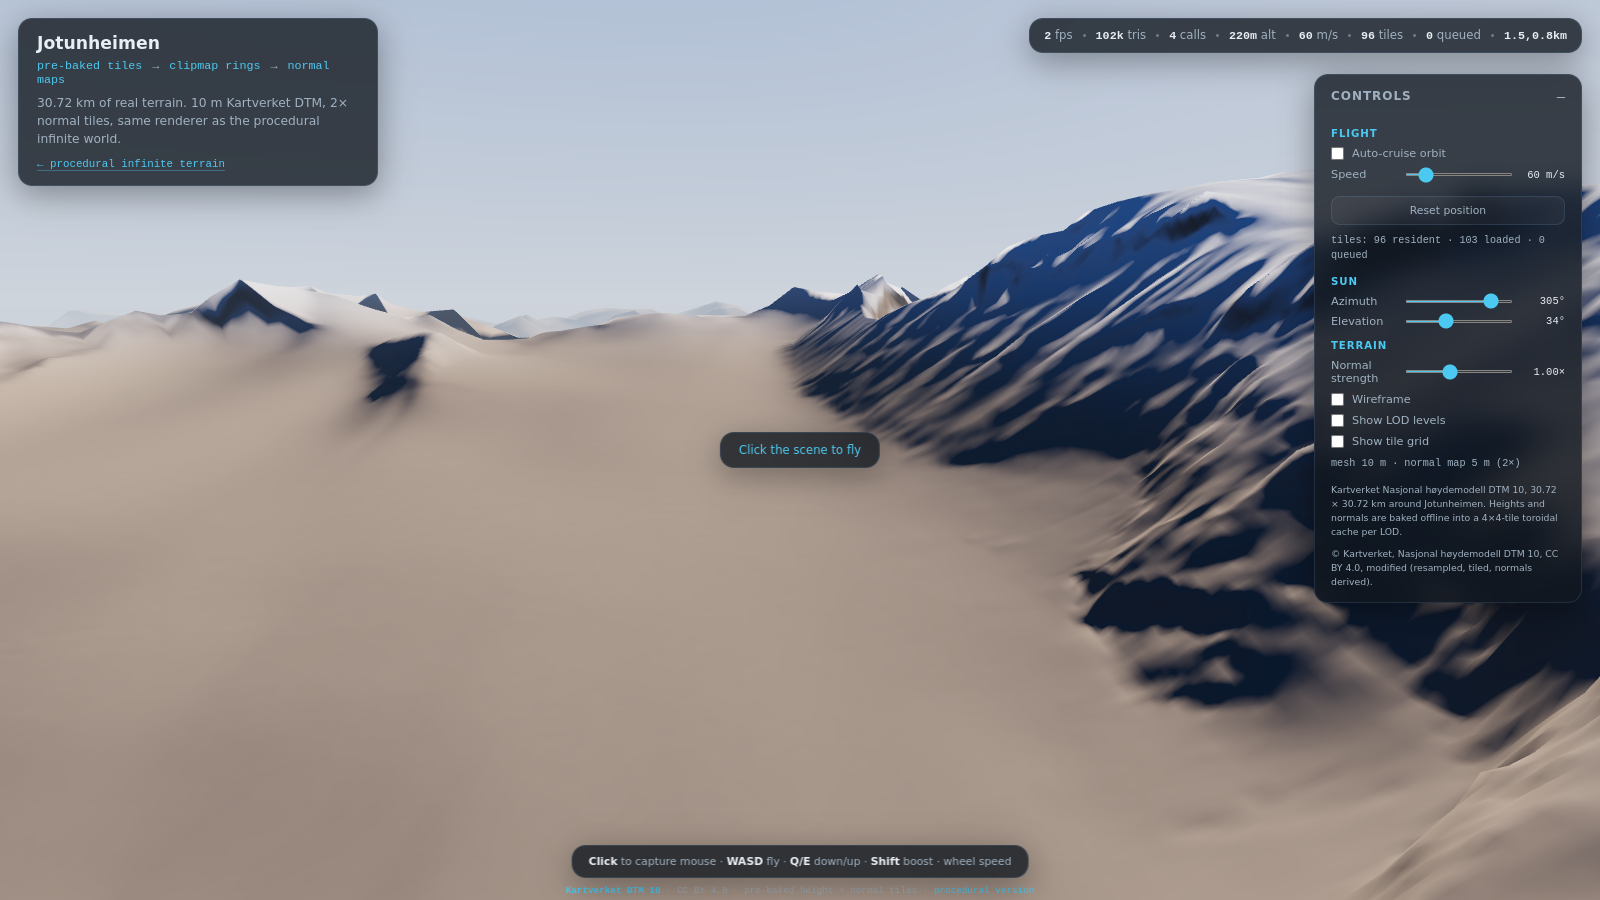
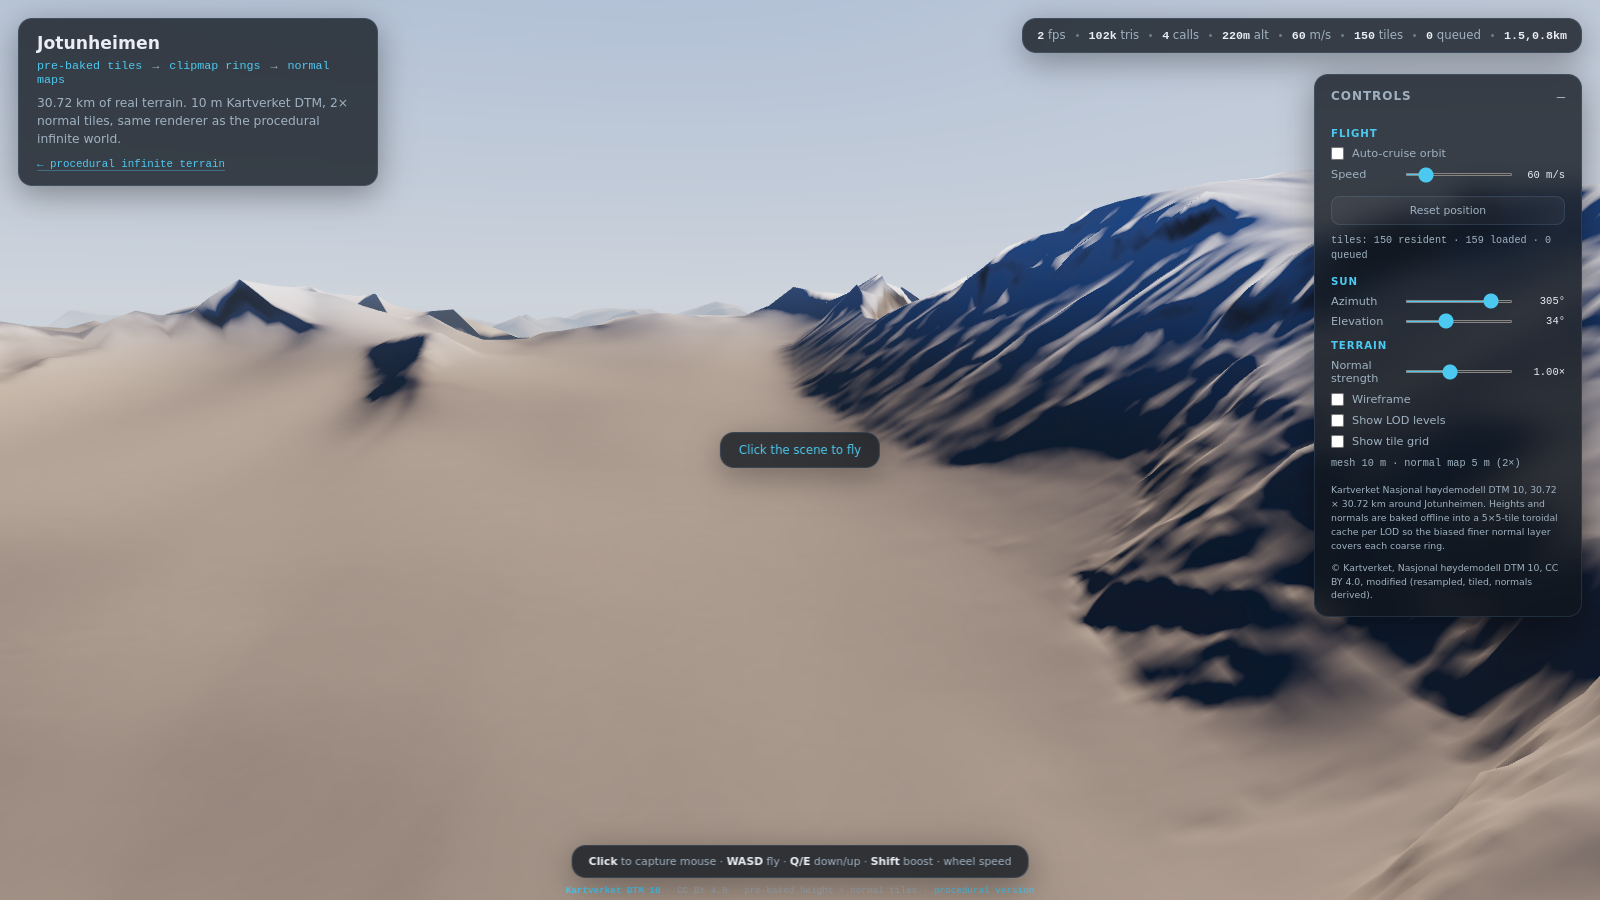
Fix normal atlas wrap seams on the DEM scene
Use a symmetric 5x5 cache so the one-layer normal bias covers the whole coarse ring, clamp the normal atlas outer edge so the toroidal slot-4/slot-0 wrap cannot blend, and expose a QA bias toggle. Flat-normal and wireframe probes confirm the mesh geometry is continuous; the artifacts were normal-map filtering.

Changed region(s): [[0.8125, 0.5911, 0.9688, 0.6844], [0.625, 0.0311, 0.8438, 0.0622], [0.875, 0.2489, 0.9375, 0.28]]

diff --git a/src/terrain/renderer.ts b/src/terrain/renderer.ts
@@ -121,7 +121,7 @@ export class ClipmapRenderer {
       uPixelScale: { value: 0.001 },
       uNormalStrength: { value: 1 },
       // Default to the geometric layer; the DEM scene opts into one finer
-      // layer, where the 4x4 cache covers the whole coarse ring.
+      // layer, where its 5x5 cache covers the whole coarse ring.
       uNormalLodBias: { value: 0 },
       uSunDirection: { value: new THREE.Vector3(0, 1, 0) },
       uSunColor: { value: new THREE.Color(1, 0.97, 0.9) },
@@ -238,8 +238,12 @@ export class ClipmapRenderer {
     texture.type = THREE.UnsignedByteType;
     texture.minFilter = THREE.LinearFilter;
     texture.magFilter = THREE.LinearFilter;
-    texture.wrapS = THREE.RepeatWrapping;
-    texture.wrapT = THREE.RepeatWrapping;
+    // The normal cache is a toroidal 5x5 atlas. Clamp only the outer atlas
+    // edge: internal slot boundaries are adjacent world tiles and should
+    // interpolate, but the wrap from slot 4 back to slot 0 is not spatially
+    // adjacent and must not blend.
+    texture.wrapS = THREE.ClampToEdgeWrapping;
+    texture.wrapT = THREE.ClampToEdgeWrapping;
     texture.generateMipmaps = false;
     texture.flipY = false;
     texture.unpackAlignment = 1;

diff --git a/src/dem/main.ts b/src/dem/main.ts
@@ -56,6 +56,7 @@ export interface DemQA {
   setTileDebug(on: boolean): void;
   setWireframe(on: boolean): void;
   setCrackDebug(on: boolean): void;
+  setNormalLodBias(bias: number): void;
   waitForTiles(): Promise<void>;
   warpTo(x: number, z: number, y?: number | null): Promise<void>;
   groundHeight(): number;
@@ -380,6 +381,9 @@ function setupQA(): void {
     setCrackDebug: (on) => {
       renderer.setClearColor(on ? 0xff00ff : 0x0b0f14, 1);
       sky.visible = !on;
+    },
+    setNormalLodBias: (bias) => {
+      terrainRenderer.setNormalLodBias(bias);
     },
     waitForTiles: () => streamer.waitForDesired(flight.x, flight.z),
     warpTo: async (x, z, y = null) => {

diff --git a/dem.html b/dem.html
@@ -83,7 +83,7 @@
       </section>
 
       <section class="credits">
-        <p>Kartverket Nasjonal høydemodell DTM 10, 30.72 × 30.72 km around Jotunheimen. Heights and normals are baked offline into a 4×4-tile toroidal cache per LOD.</p>
+        <p>Kartverket Nasjonal høydemodell DTM 10, 30.72 × 30.72 km around Jotunheimen. Heights and normals are baked offline into a 5×5-tile toroidal cache per LOD so the biased finer normal layer covers each coarse ring.</p>
         <p class="attribution">© Kartverket, Nasjonal høydemodell DTM 10, CC BY 4.0, modified (resampled, tiled, normals derived).</p>
       </section>
     </div>

diff --git a/src/terrain/shaders.ts b/src/terrain/shaders.ts
@@ -210,7 +210,7 @@ export const terrainFragmentShader: string = /* glsl */ `
 
     // ---- normal map, with an optional negative LOD bias -----------------
     // The DEM page sets uNormalLodBias to 1. The next-finer normal layer is
-    // resident in the 4x4 cache and covers the whole coarse ring, so this
+    // resident in the 5x5 cache and covers the whole coarse ring, so this
     // gives distant shading detail without mipmap bleeding across slots.
     float nLevel = max(vLevel - uNormalLodBias, 0.0);
     float nSpacing = uBaseSpacing * exp2(nLevel);

diff --git a/src/dem/prebaked-source.ts b/src/dem/prebaked-source.ts
@@ -95,7 +95,9 @@ export function configFromManifest(manifest: DemManifest): TerrainConfig {
     baseSpacing: manifest.baseSpacing,
     levels: manifest.levels,
     tileSize: manifest.tileSize,
-    cacheTiles: 4,
+    // The normal LOD bias samples layer L-1; a symmetric 5x5 window is
+    // required for that finer layer to cover the whole coarse ring.
+    cacheTiles: 5,
     normalScale: manifest.normalScale,
     heightScale: manifest.heightScale,
     centerCells: 24,

diff --git a/openspec/changes/add-prebaked-jotunheimen-scene/design.md b/openspec/changes/add-prebaked-jotunheimen-scene/design.md
@@ -98,7 +98,7 @@ interface TileSource {
 }
 ```
 
-`TileCache` owns the desired 4×4 window, priority sort, stale-request cancellation, slot state, upload errors, `prime()`, and `waitForDesired()`. It allows a small fixed number of in-flight source promises (4 is a reasonable default; the procedural source internally limits itself to its two workers). A stale result is discarded without upload; a failed result is reported once and recorded so it is not retried in a tight loop.
+`TileCache` owns the desired `cacheTiles × cacheTiles` window (4×4 for the procedural page, 5×5 for the DEM page), priority sort, stale-request cancellation, slot state, upload errors, `prime()`, and `waitForDesired()`. It allows a small fixed number of in-flight source promises (4 is a reasonable default; the procedural source internally limits itself to its two workers). A stale result is discarded without upload; a failed result is reported once and recorded so it is not retried in a tight loop.
 
 The procedural source moves the current worker-pool logic out of `TileStreamer`. The worker protocol is simplified: `init` carries the seed plus the `TerrainConfig` generation fields; tile requests carry only `id`, `level`, `tx`, `ty`. The worker keeps its height field and config for its lifetime. This removes the current per-tile repetition of `tileSize`, `baseSpacing`, `heightScale`, and `normalScale`.
 
@@ -148,7 +148,7 @@ Kartverket WCS (EPSG:25833)
 
 **Normals.** For each tile at LOD `L`, sample a `(64·normalScale + 2)²` halo at `normalSpacing = S_L / normalScale` from the same global grid using bilinear interpolation. Call the shared `bakeTileNormals(halo, normalTileSize, normalSpacing, heightScale)`. The halo means the normals adjacent to a tile boundary are computed from the same world samples as the neighbour, so the normal field is continuous after RGB8 quantization. The bake tool compares boundary-adjacent normals against a reference recomputation from the global grid and writes a seam report; `test:dem` verifies the report and can rebake a deterministic sample of boundary tiles.
 
-**Normal LOD bias.** The fragment shader samples normal layer `max(vLevel - uNormalLodBias, 0)`; the DEM page sets the bias to 1, so distant rings use the next-finer normal layer that is already resident in the 4×4 cache. The procedural page keeps 0. The boundary cross-fade target is `nLevel + 1` for `vLevel > 0`, matching the child ring's biased layer; level 0 has no finer layer and does not cross-fade. This is the tile-atlas-safe equivalent of a negative mipmap LOD bias: actual mipmaps would bleed across the packed tile slots and require a full-layer regenerate after every `texSubImage3D`.
+**Normal LOD bias.** The fragment shader samples normal layer `max(vLevel - uNormalLodBias, 0)`; the DEM page sets the bias to 1, so distant rings use the next-finer normal layer that is already resident in the symmetric 5×5 cache. The procedural page keeps 0. The boundary cross-fade target is `nLevel + 1` for `vLevel > 0`, matching the child ring's biased layer; level 0 has no finer layer and does not cross-fade. This is the tile-atlas-safe equivalent of a negative mipmap LOD bias: actual mipmaps would bleed across the packed tile slots and require a full-layer regenerate after every `texSubImage3D`.
 
 **Heights.** Height tiles store `uint16 = round(normalizedHeight * 65535)`. The runtime converts to `Float32Array` and the cache converts to the renderer's `R16F` upload. The source's minimum is ~0.19 after normalization, which is fine for the existing material bands.
 

diff --git a/AGENTS.md b/AGENTS.md
@@ -140,8 +140,8 @@ the binary is at `~/.local/bin/openspec`.
    `uNormalTileCells = 512` for the normal UV. `T` in the UV formula is the
    *per-map* tile texel count, not always 64. This is the 8× resolution
    ratio (0.25 m normal texels vs 2 m mesh) that makes the detail visible.
-   The DEM page uses `normalScale = 2` (128² normal tiles, 512² layers) with
-   the same formula; do not hardcode 512/8 in shared code.
+   The DEM page uses `normalScale = 2` (128² normal tiles, 640² atlas layers)
+   with the same formula; do not hardcode 512/8 in shared code.
 9. **Every LOD snaps to its own spacing.** `snapLevelOrigins()` rounds each
    origin to a multiple of **its own** `S_L` (`origin_L = round(cam / S_L) *
    S_L`). A shared finest-level origin makes coarse vertices re-sample their
@@ -185,12 +185,13 @@ the binary is at `~/.local/bin/openspec`.
     ~160 MiB) — exactly the WebGL2 guaranteed minimum `MAX_TEXTURE_SIZE`, so
     `main.ts` throws rather than growing it.
 17. **DEM clipmap constants:** `S0=10 m`, `C=24` cells, `LEVELS=6`,
-    `normalScale=2`, outer radius 15.36 km over a 30.72 km checked-in window.
-    The manifest is the source of truth for the page config; do not hardcode
-    the dataset's spacing or normal scale in `dem.html` code.
+    `normalScale=2`, 5×5 cache, outer radius 15.36 km over a 30.72 km
+    checked-in window. The manifest is the source of truth for the page
+    config; do not hardcode the dataset's spacing or normal scale in
+    `dem.html` code.
 18. **Normal shading supports a one-layer LOD bias.** The DEM page sets
     `uNormalLodBias = 1`, sampling normal layer `max(vLevel - 1, 0)`; the
-    procedural page keeps 0. The 4×4 finer-layer cache covers the whole coarse
+    procedural page keeps 0. The 5×5 finer-layer cache covers the whole coarse
     ring, so this is safe. The boundary cross-fade target is `nLevel + 1` for
     `vLevel > 0`. Do not add GPU mipmaps to the tiled normal atlas: mips bleed
     across packed slots and would need a full-layer regenerate after every
@@ -229,7 +230,7 @@ the binary is at `~/.local/bin/openspec`.
   bake is ~7× the work of a 2× build. The pre-baked source fetches checked-in
   tiles with a bounded in-flight queue instead. The 4×4 cache covers the
   visible 3×3 ring plus a prefetch row/column; the infinite normal cache costs
-  ~160 MiB, the DEM one is much smaller (512² per layer).
+  ~160 MiB, the DEM one is much smaller (640² per layer, 5×5 slots).
 - The height function must stay a pure function of `(x, z)`; global passes
   (e.g. erosion simulation) would make streamed tiles disagree at their seams.
 - The checked-in DEM tiles are generated artifacts; change them by re-running

diff --git a/docs/VERIFICATION.md b/docs/VERIFICATION.md
@@ -55,7 +55,7 @@ than early builds; if it collapses toward ~1×, the normal layer/UV mapping or
 
 Reference values from the verified multi-noise terrain build (Nov 2026):
 160 resident tiles after streaming settles, 165k triangles, 4 draw calls,
-2 workers, normal-map `hf=9.16` vs flat `hf=0.23`, zero upload errors,
+2 workers, normal-map `hf=9.17` vs flat `hf=0.23`, zero upload errors,
 160 resident tiles after both 25 km and 500 km warps. The normal cache is
 2048 texels per side / ~160 MiB — the WebGL2 ceiling.
 
@@ -96,11 +96,13 @@ crack test, and a boundary view. `analyze-dem.ts` asserts:
 | `< 0.2 %` magenta in the crack shot | no gaps between clipmap rings |
 
 Reference values from the checked-in 2× dataset (Nov 2026): 3,080 tiles,
-~101 MB checked in, ~60 resident after priming, 96 resident after a warp,
-102k triangles, 4 draw calls, zero upload errors, normal-map `hf=2.24` vs
+~101 MB checked in, 61 resident after priming, 150 resident after a warp,
+102k triangles, 4 draw calls, zero upload errors, normal-map `hf=2.25` vs
 flat `hf=0.36`, and zero crack-test magenta. The DEM page sets
 `uNormalLodBias = 1`, so each ring samples the next-finer normal layer; the
-procedural page keeps the bias at 0. The 2× normal PNGs are ~24 KB each; see
+procedural page keeps the bias at 0. The 5×5 cache makes the finer layer cover
+the whole coarse ring, and the normal atlas clamps at its outer edge so the
+toroidal slot-4/slot-0 wrap cannot bleed. The 2× normal PNGs are ~24 KB each; see
 [DEM_DATASET.md](DEM_DATASET.md) for the source and bake details.
 
 The boundary shot (`08-boundary.png`) warps to `(6, 0) km`, beyond the old

diff --git a/README.md b/README.md
@@ -66,9 +66,10 @@ baked offline by `tools/bake-dem.ts`, checked into
 `ClipmapRenderer` as the procedural page.
 
 - **Source:** Kartverket DTM 10 via the Geonorge WCS, EPSG:25833, CC BY 4.0.
-- **Grid:** 10 m, 6 LODs, 2× normal resolution, 3,080 tiles, ~101 MB checked
-  in. The 2× normal PNGs dominate the size; the fragment shader biases each
-  ring to the next-finer normal layer for sharper distant shading.
+- **Grid:** 10 m, 6 LODs, 2× normal resolution, 5×5 cache, 3,080 tiles,
+  ~101 MB checked in. The 2× normal PNGs dominate the size; the fragment
+  shader biases each ring to the next-finer normal layer for sharper distant
+  shading.
 - **Bake tool:** Node + `geotiff` + `proj4` + `pngjs`; no GDAL. All LODs come
   from one height grid, and normals use a one-texel halo so tile edges are
   continuous.

diff --git a/docs/INFINITE_TERRAIN_CONCEPT.md b/docs/INFINITE_TERRAIN_CONCEPT.md
@@ -300,7 +300,7 @@ mapN   = normalize(vec3(nm.x * strength, nm.z, nm.y * strength))
 ```
 
 The DEM page sets `uNormalLodBias` to 1: each ring samples the next-finer
-normal layer, which is already resident in the 4×4 cache and covers the whole
+normal layer, which is already resident in the 5×5 cache and covers the whole
 coarse ring. The procedural page keeps the bias at 0. This is the
 tile-atlas-safe equivalent of a negative mipmap LOD bias; real mipmaps would
 bleed across packed slots.

diff --git a/docs/DEM_DATASET.md b/docs/DEM_DATASET.md
@@ -21,7 +21,7 @@ real-world DEM.
 | LODs | 6 (`S0 = 10 m`) |
 | Tile size | 64 height samples |
 | Normal scale | 2× (5 m normal texels) |
-| Tile cache | 4 × 4 slots per LOD |
+| Tile cache | 5 × 5 slots per LOD |
 | Checked-in size | ~101 MB |
 
 The source is a **DTM** (bare earth), not a DSM. The elevation range in this
